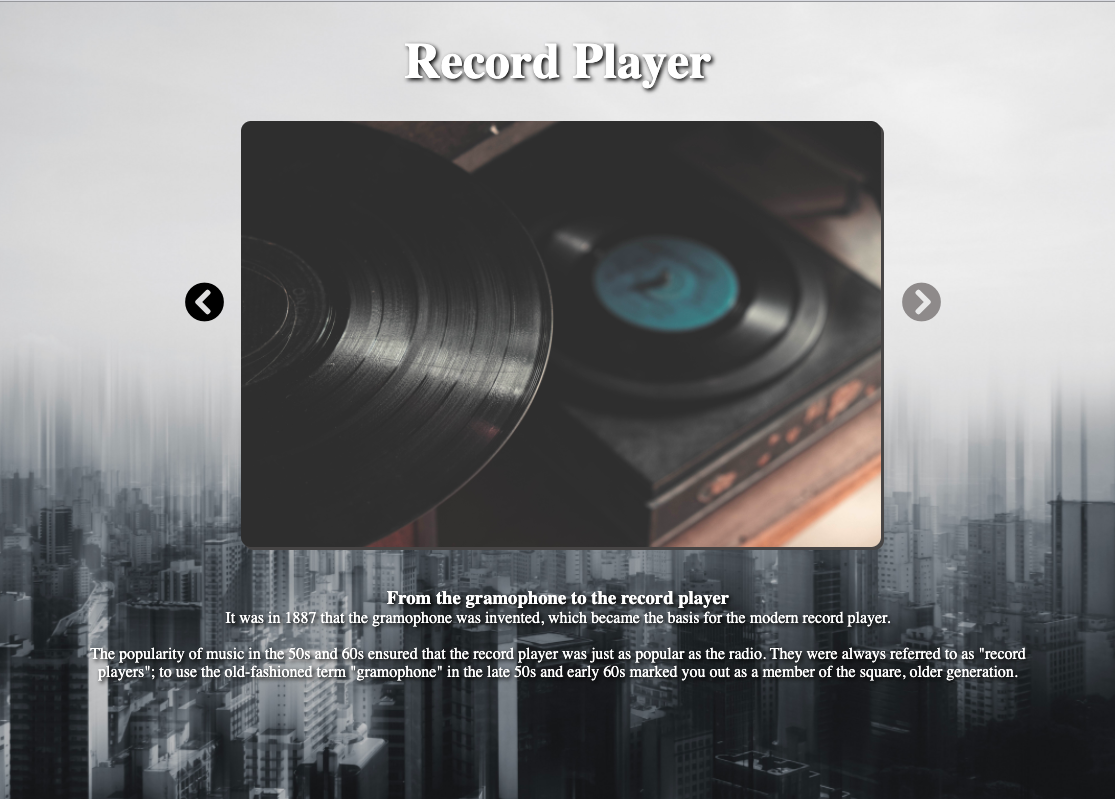
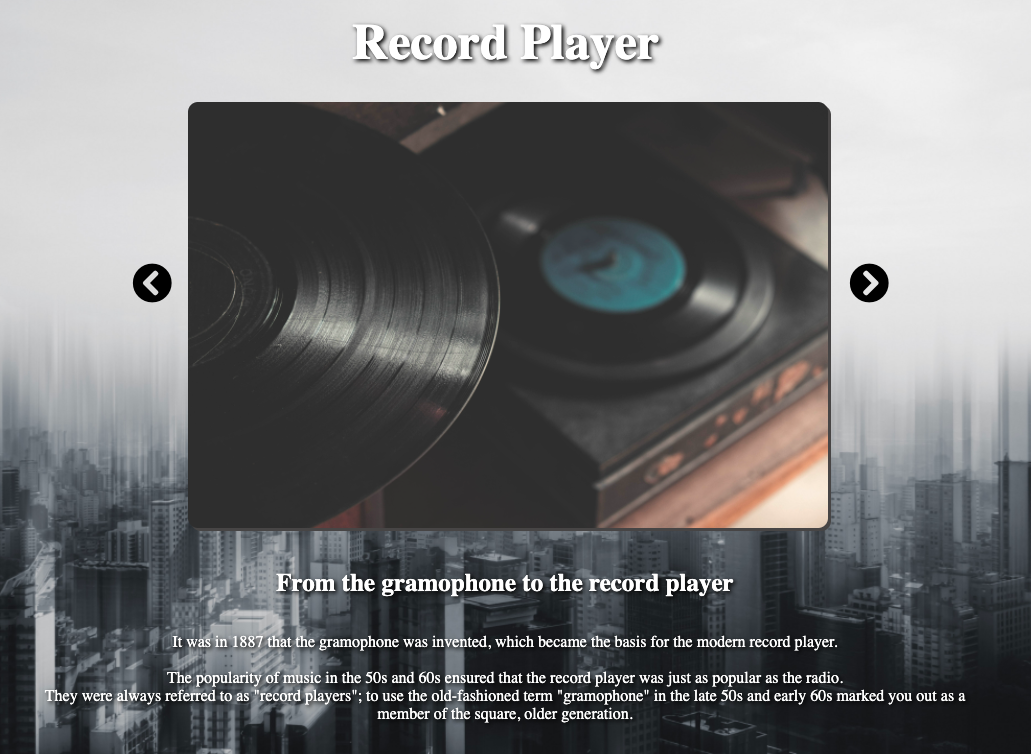
commit

diff --git a/styles.css b/styles.css
@@ -6,7 +6,6 @@
 .hero {
   background-image: url("/images/bgimg2.jpg");
   background-color: #8d8a8a;
-  height: 100vh;
   background-position: center;
   background-repeat: no-repeat;
   background-size: cover;
@@ -25,13 +24,13 @@
   height: 426px;
   border-radius: 10px;
   box-shadow: 3px 3px #474545;
-  margin-left: 400px;
 }
 
 .container {
-  width: 100%;
-  margin: auto 0 auto;
+  width: 635px;
+  padding: 0 auto 0 auto;
   position: relative;
+  left: 28%;
 }
 
 #nav {
@@ -88,12 +87,12 @@ p {
     width: 50%;
   } */
 
-  .slider img {
+  /* .slider img {
     width: 320px;
     height: 208px;
     border-radius: 10px;
     box-shadow: 3px 3px #474545;
-  }
+  } */
 
   /* #nav li i {
     display: none;
